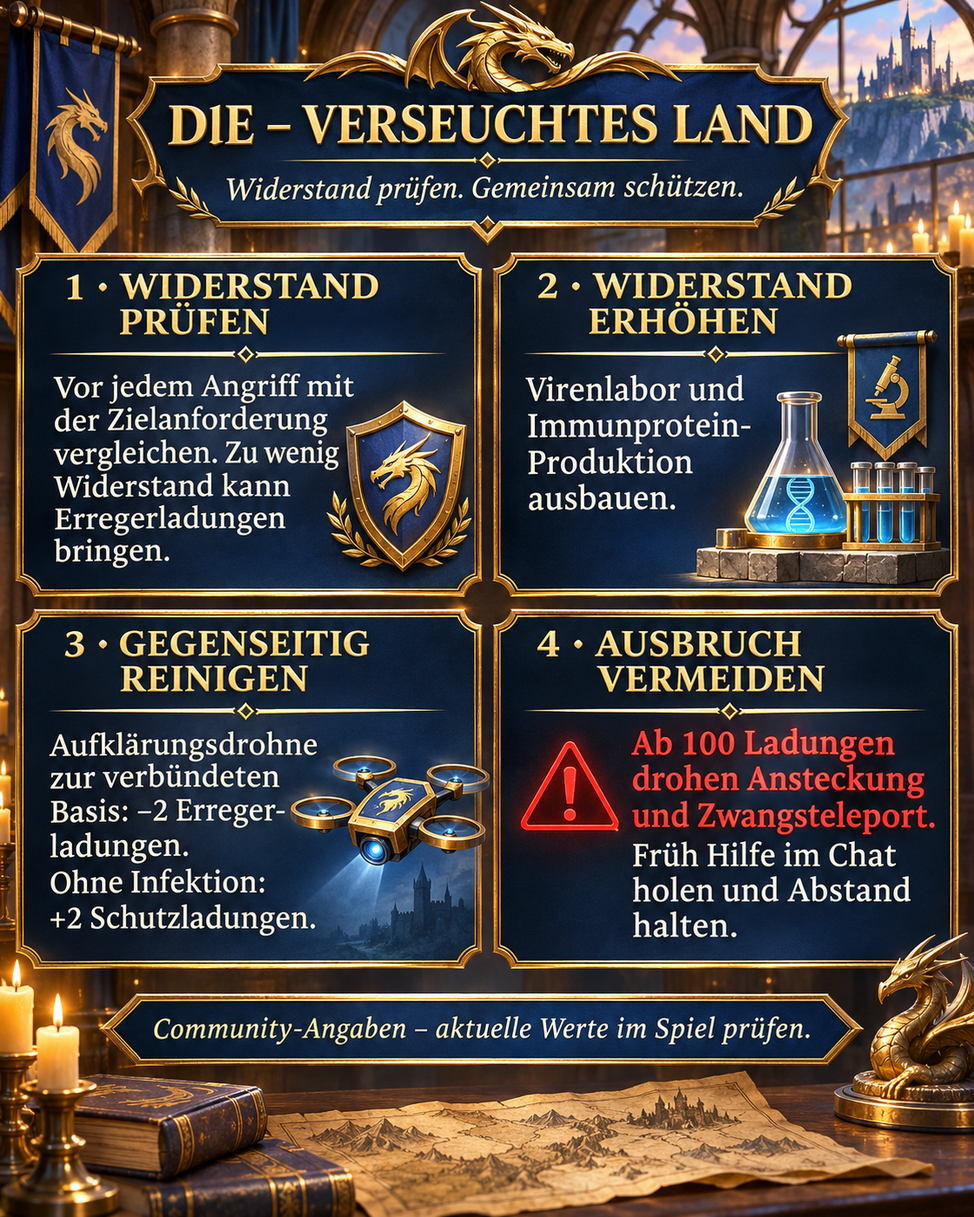
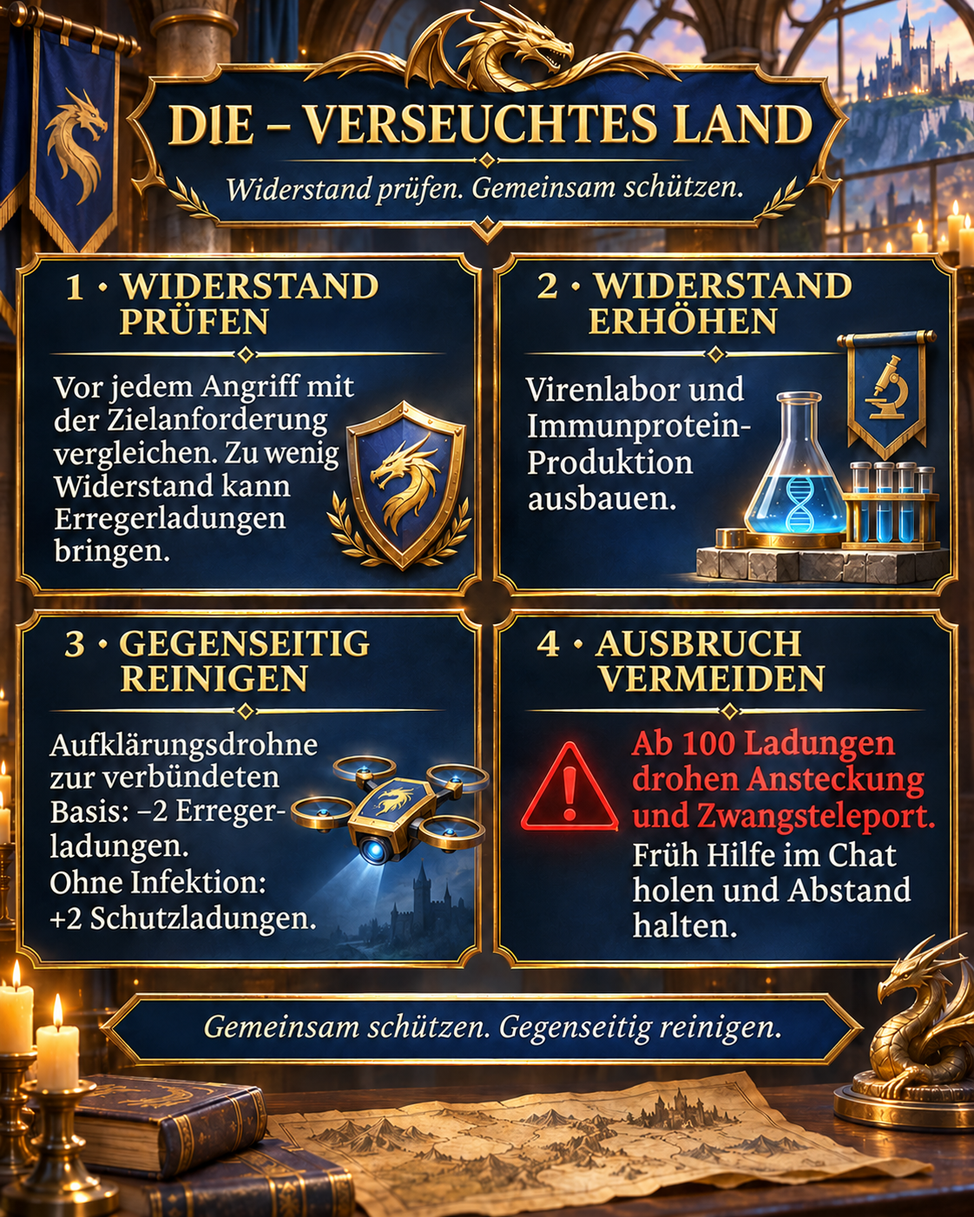
Clarify confirmed Radiated Land mechanics
Update the event guide in all five languages with confirmed resistance, cleansing, and outbreak details. Refresh the alliance graphic, image-edit prompt, and generated documentation summary.

diff --git a/content/Drachenwissen/Eventankuendigungen/ru/VerseuchtesLand_Widerstand_Erreger.md b/content/Drachenwissen/Eventankuendigungen/ru/VerseuchtesLand_Widerstand_Erreger.md
@@ -1,47 +1,41 @@
 # Облучённая земля: проверяем сопротивление и вместе снимаем заражение
 
-Для нас в DIE главное — сопротивление, контроль заражения и взаимопомощь. Здесь собраны сообщение альянса и подробное объяснение новых сезонных механик.
-
-## Актуальность и достоверность
-
-Дата проверки: 2 ноября 2026 года. Все численные параметры — **сведения сообщества**, не подтверждённые нашими снимками игры. Немецкое название — «Verseuchtes Land», английское — «Radiated Land». Приоритет имеют текущие требования целей и правила в игре. Подтверждённой даты завершения для нас нет, поэтому страница не помечена как завершённое событие.
+В событии «Облучённая земля» при выборе безопасной цели важна не только наша боевая мощь, но и сопротивление. Заряды патогена ослабляют нас, а при сильном заражении могут передаваться соседним базам. Развитие сезонных зданий и взаимная очистка помогают нам защищать друг друга.
 
 ## Иллюстрация и краткое содержание
 
 ![Облучённая земля: проверяем сопротивление и вместе снимаем заражение](../../../../media/knowledge/Eventankuendigungen/VerseuchtesLand_Widerstand_Erreger.png)
 
-Оригинальная немецкая иллюстрация в сине-золотом стиле DIE: проверять сопротивление, развивать производство, помогать с очисткой и избегать вспышки. Ниже эти четыре действия объяснены по-русски.
-
 ## Сопротивление и заряды патогена
 
-Сопротивление — защитный показатель, который мы сравниваем с требованием цели до атаки. Заряды патогена — уже накопленное заражение. Победа сама по себе не гарантирует отсутствия заражения. По [источнику 1](https://zroutehub.bond/handbook/event_season_guide/), атаки при недостаточном сопротивлении могут добавлять заряды. Точная формула зависимости риска от разницы сопротивления не установлена.
+Сопротивление — защитный показатель, который мы сравниваем с требованием цели до атаки. Заряды патогена — уже накопленное заражение. Победа не защищает от инфекции: при недостаточном сопротивлении даже успешная атака может добавить заряды. [Подробнее о механике](https://zroutehub.bond/handbook/event_season_guide/).
 
 ## Как повышать сопротивление
 
-Лаборатория вирусов повышает сопротивление и улучшается иммунным белком. Сезонные производственные здания дают белок и улучшаются урановыми кристаллами. [Источник 2](https://trassaz.ru/sezon-s1/) также называет исследования и бонус пропуска +250. Перед покупкой проверяйте актуальное предложение. Мы рекомендуем развивать производство и лабораторию вместе и проверять требования новых целей.
+Лаборатория вирусов повышает наше сопротивление и улучшается иммунным белком. Сезонные производственные здания дают этот белок и улучшаются урановыми кристаллами. Развивайте производство и лабораторию вместе, чтобы поступление ресурсов соответствовало потребностям. Исследования и бонус сезонного пропуска +250 дают дополнительное сопротивление. [Подробнее о развитии](https://trassaz.ru/sezon-s1/).
 
 ## Очистка и вспышка
 
-По [источнику 1](https://zroutehub.bond/handbook/event_season_guide/), разведывательный дрон на базу союзника снимает 2 заряда, а незаражённой базе даёт 2 защитных заряда. Это не обычный щит базы. При 100 зарядах сообщество описывает вспышку, заражение соседей и принудительную телепортацию. Заранее просите помощь, следите за заражением и при угрозе вспышки держитесь подальше от наших баз. Не отключайте очистку союзниками намеренно, пока мы вместе не проверим механику.
+Разведывательный дрон на базу союзника снимает 2 заряда патогена. Незаражённая база вместо этого получает 2 защитных заряда. При 100 зарядах происходит вспышка: соседние цели заражаются, а поражённая база принудительно телепортируется. Сообщайте о росте заражения в чате заранее, чтобы мы успели помочь с очисткой. При угрозе вспышки держитесь подальше от наших баз. [Подробнее об очистке и вспышке](https://zroutehub.bond/handbook/event_season_guide/).
 
-## Противоречия и вопросы
+## Сопротивление и защитные заряды
 
-Источники называют 30 или 35 передаваемых зарядов и расходятся по белку за Наблюдателей. Радиус, задержку, лимиты очистки, правила сборов и длительность штрафов после очистки ещё нужно проверить в нашей версии. Патоген, защитные заряды, сопротивление и антитела — разные понятия; пересчёт между ними не установлен.
+Сопротивление защищает нас при атаках заражённых целей. Очистка союзниками снимает накопленные заряды патогена. Защитные заряды накапливаются на незаражённой базе и отличаются от обычного щита. Антитела — ещё один отдельный показатель. Эти понятия нельзя приравнивать друг к другу.
 
 ## Наш порядок действий
 
-- До атаки сравниваем сопротивление с требованием цели.
-- Развиваем лабораторию и производство белка без слепого вложения всего в одно здание.
-- После боёв проверяем заряды и заранее организуем взаимную очистку.
-- Расхождения фиксируем снимками цели, сопротивления и количества зарядов.
+- До каждой атаки сравнивать наше сопротивление с требованием цели.
+- Развивать лабораторию вирусов и производство иммунного белка вместе.
+- После боёв проверять заряды и заранее просить об очистке.
+- При угрозе вспышки держаться подальше от наших баз и просить помощь в чате.
 
-## Источники и оценка
+## Источники
 
-1. [Server 33](https://zroutehub.bond/handbook/event_season_guide/) — Русский справочник сообщества сервера 33: сезонные здания, сопротивление, дроны и вспышка. Несмотря на заголовок «официальный гайд», сайт неофициальный.
+1. [Server 33](https://zroutehub.bond/handbook/event_season_guide/) — Русский справочник сообщества по сезонным зданиям, сопротивлению, очистке дронами и вспышке.
 
-2. [Z Route Wiki](https://trassaz.ru/sezon-s1/) — Русский фанатский гайд от 7 октября 2026 года: гамма-вирус, лаборатория, исследования и сезонные бонусы. Некоторые сведения расходятся с источником 1.
+2. [Z Route Wiki](https://trassaz.ru/sezon-s1/) — Русский фанатский гайд от 7 октября 2026 года о гамма-вирусе, сопротивлении и сезонных бонусах.
 
-3. [ARES](https://rutube.ru/video/b487339c34cd06938c1ba8a1af58c624/) — Видео ARES от 23 сентября 2026 года, 22:18: описание упоминает сопротивление, мораль и заражённую землю. Только дополнительная ссылка; числа этой страницы по видео не проверялись.
+3. [ARES](https://rutube.ru/video/b487339c34cd06938c1ba8a1af58c624/) — Русское видео от 23 сентября 2026 года с советами по сопротивлению, морали и заражённой земле (22:18).
 
 ## Сообщение альянса для копирования
 
@@ -52,11 +46,9 @@
 
 🧪 <b>Улучшайте лабораторию вирусов и производство иммунного белка.</b>
 
-🛰 <b>Помогаем с очисткой!</b> По данным сообщества, разведывательный дрон на базу союзника снимает 2 заряда, а незаражённой базе даёт 2 защитных заряда.
+🛰 <b>Помогаем с очисткой!</b> Разведывательный дрон на базу союзника снимает 2 заряда, а незаражённой базе даёт 2 защитных заряда.
 
 <color=#FF4040><b>⚠ Сообщайте о заражении заранее!</b></color> Оно ослабляет вас. При 100 зарядах грозят вспышка, заражение соседей и принудительная телепортация. При сильном заражении держитесь подальше от наших баз и просите помощь в чате.
 
 <b>Защищаем друг друга вместе!</b>
-
-Сведения сообщества; проверяйте текущие значения в игре.
 ```

diff --git a/content/Drachenwissen/Eventankuendigungen/fr/VerseuchtesLand_Widerstand_Erreger.md b/content/Drachenwissen/Eventankuendigungen/fr/VerseuchtesLand_Widerstand_Erreger.md
@@ -1,47 +1,41 @@
 # Terres contaminées : vérifier la résistance et éliminer les agents pathogènes ensemble
 
-Chez DIE, nous privilégions la résistance, le suivi de la contamination et l’entraide. Cette page réunit notre message d’alliance et une explication plus détaillée des nouvelles mécaniques saisonnières.
-
-## État et fiabilité
-
-Recherche du 2 novembre 2026. Toutes les valeurs sont des **indications communautaires**, sans confirmation par nos propres captures. Les sources russes parlent de « Облучённая земля », les sources anglaises de « Radiated Land ». Les indications actuelles du jeu priment. Aucune date de fin pour notre alliance n’est confirmée ; cette page n’est donc pas archivée comme terminée.
+Dans les Terres contaminées, la résistance compte autant que notre puissance pour choisir les cibles que nous pouvons attaquer sans risque excessif. Les charges pathogènes nous affaiblissent et peuvent contaminer les bases voisines lorsqu’elles s’accumulent. Développer nos bâtiments saisonniers et nous entraider pour la décontamination nous protège ensemble.
 
 ## Illustration et résumé
 
 ![Terres contaminées : vérifier la résistance et éliminer les agents pathogènes ensemble](../../../../media/knowledge/Eventankuendigungen/VerseuchtesLand_Widerstand_Erreger.png)
 
-Illustration originale en allemand, dans le style bleu et or de DIE : vérifier la résistance, développer la production, se décontaminer et éviter une épidémie. Ces quatre actions sont expliquées en français ci-dessous.
-
 ## Résistance et charges pathogènes
 
-La résistance est la protection à comparer aux exigences de la cible avant une attaque. Les charges pathogènes représentent la contamination déjà accumulée. Une victoire ne garantit pas une attaque sans infection. Selon la [source 1](https://zroutehub.bond/handbook/event_season_guide/), une résistance insuffisante peut entraîner des charges. La formule exacte reliant le risque à l’écart de résistance n’est pas établie.
+La résistance est la protection à comparer aux exigences de la cible avant une attaque. Les charges pathogènes représentent la contamination déjà accumulée. Une victoire ne protège pas de l’infection : si la résistance est insuffisante, même une attaque réussie peut ajouter des charges. [En savoir plus sur la mécanique](https://zroutehub.bond/handbook/event_season_guide/).
 
 ## Augmenter la résistance
 
-Le laboratoire viral augmente la résistance et utilise des protéines immunitaires pour ses améliorations. Les bâtiments saisonniers produisent ces protéines et s’améliorent avec des cristaux d’uranium. La [source 2](https://trassaz.ru/sezon-s1/) cite aussi la recherche et un bonus de pass de +250. Vérifiez l’offre actuelle avant tout achat. Nous recommandons de développer ensemble production et laboratoire et de vérifier les exigences des nouvelles cibles.
+Le laboratoire viral augmente notre résistance et utilise des protéines immunitaires pour ses améliorations. Les bâtiments saisonniers produisent ces protéines et s’améliorent avec des cristaux d’uranium. Développez production et laboratoire ensemble pour adapter les ressources aux besoins. La recherche et un bonus de pass de +250 apportent une résistance supplémentaire. [En savoir plus sur le développement](https://trassaz.ru/sezon-s1/).
 
 ## Décontamination et épidémie
 
-La [source 1](https://zroutehub.bond/handbook/event_season_guide/) annonce −2 charges par drone de reconnaissance envoyé à une base alliée, ou +2 charges protectrices si elle est saine. Ces charges ne sont pas un bouclier de base normal. À 100 charges, la communauté décrit une épidémie, une contamination du voisinage et une téléportation forcée. Demandez de l’aide tôt et éloignez-vous de nos bases si une épidémie menace. Ne désactivez pas volontairement la décontamination alliée avant un test commun.
+Un drone de reconnaissance envoyé à une base alliée retire 2 charges pathogènes. Une base saine reçoit à la place 2 charges protectrices. À 100 charges pathogènes, une épidémie contamine les cibles voisines et provoque la téléportation forcée de la base touchée. Signalez rapidement toute hausse dans le chat pour que nous puissions nous décontaminer à temps. Éloignez-vous de nos bases si une épidémie est imminente. [En savoir plus sur la décontamination et les épidémies](https://zroutehub.bond/handbook/event_season_guide/).
 
-## Désaccords et questions ouvertes
+## Comprendre la résistance et les charges protectrices
 
-Les sources indiquent 30 ou 35 charges transmises et divergent sur les protéines obtenues contre les Observateurs. Portée, délai, limites de décontamination, règles de ralliement et durée des pénalités après nettoyage restent à tester. Agents pathogènes, charges protectrices, résistance et anticorps sont distincts ; aucune conversion n’est établie.
+La résistance nous protège lors des attaques contre des cibles infectées. La décontamination alliée retire les charges pathogènes accumulées. Les charges protectrices se constituent sur une base saine et sont distinctes du bouclier normal. Les anticorps sont une autre valeur séparée. Ces termes ne doivent pas être confondus.
 
 ## Notre méthode
 
-- Comparer résistance et exigence avant les attaques.
-- Développer laboratoire et production sans tout investir aveuglément dans un seul bâtiment.
-- Contrôler les charges après les combats et organiser rapidement l’entraide.
-- Documenter les écarts par des captures de la cible, de la résistance et des charges.
+- Comparer notre résistance au seuil requis avant chaque attaque.
+- Développer ensemble le laboratoire viral et la production de protéines immunitaires.
+- Contrôler les charges après les combats et demander une décontamination rapidement.
+- S’éloigner de nos bases si une épidémie menace et demander de l’aide dans le chat.
 
-## Sources et évaluation
+## Sources
 
-1. [Server 33](https://zroutehub.bond/handbook/event_season_guide/) — Guide russe de la communauté du serveur 33 : bâtiments saisonniers, résistance, drones et épidémie. Malgré la mention « guide officiel », le site est communautaire et non officiel.
+1. [Server 33](https://zroutehub.bond/handbook/event_season_guide/) — Guide communautaire russe sur les bâtiments saisonniers, la résistance, les drones et les épidémies.
 
-2. [Z Route Wiki](https://trassaz.ru/sezon-s1/) — Guide de fans russe du 7 octobre 2026 : virus gamma, laboratoire, recherche et bonus saisonniers. Certaines indications divergent de la source 1.
+2. [Z Route Wiki](https://trassaz.ru/sezon-s1/) — Guide de fans russe du 7 octobre 2026 sur le virus gamma, la résistance et les bonus saisonniers.
 
-3. [ARES](https://rutube.ru/video/b487339c34cd06938c1ba8a1af58c624/) — Vidéo ARES du 23 septembre 2026, 22:18 : la description mentionne résistance, moral et terres contaminées. Lien complémentaire uniquement ; les chiffres de cette page n’ont pas été vérifiés dans la vidéo.
+3. [ARES](https://rutube.ru/video/b487339c34cd06938c1ba8a1af58c624/) — Vidéo russe du 23 septembre 2026 avec des conseils sur la résistance, le moral et les terres contaminées (22:18).
 
 ## Message d’alliance à copier
 
@@ -52,11 +46,9 @@ Les sources indiquent 30 ou 35 charges transmises et divergent sur les protéine
 
 🧪 <b>Améliorez le laboratoire viral et la production de protéines immunitaires.</b>
 
-🛰 <b>Décontaminons-nous !</b> Selon la communauté, un drone de reconnaissance vers une base alliée retire 2 charges pathogènes ou ajoute 2 charges protectrices si elle est saine.
+🛰 <b>Décontaminons-nous !</b> Un drone de reconnaissance vers une base alliée retire 2 charges pathogènes ou ajoute 2 charges protectrices si elle est saine.
 
 <color=#FF4040><b>⚠ Signalez la contamination tôt !</b></color> Elle vous affaiblit. À 100 charges : risque d’épidémie, de contamination voisine et de téléportation forcée. Éloignez-vous de nos bases en cas de forte contamination et demandez de l’aide dans le chat.
 
 <b>Protégeons-nous ensemble !</b>
-
-Indications communautaires ; vérifiez les valeurs en jeu.
 ```

diff --git a/content/Drachenwissen/Eventankuendigungen/de/VerseuchtesLand_Widerstand_Erreger.md b/content/Drachenwissen/Eventankuendigungen/de/VerseuchtesLand_Widerstand_Erreger.md
@@ -1,47 +1,41 @@
 # Verseuchtes Land: Widerstand prüfen und Erreger gemeinsam reinigen
 
-Für uns in DIE stehen Widerstand, Erregerkontrolle und gegenseitige Hilfe im Mittelpunkt. Diese Seite verbindet die Allianz-Mitteilung mit einer ausführlicheren Einordnung der neuen Saisonmechanik.
-
-## Stand und Verlässlichkeit
-
-Recherche: 2. November 2026. Alle Mechanikwerte sind **Community-Hinweise**, nicht von uns durch Spielaufnahmen bestätigt. Russische Quellen nennen die Saison „Облучённая земля“, englische „Radiated Land“. Aktuelle Zielanzeigen und Eventregeln im Spiel haben Vorrang. Für unsere Allianz liegt hier kein bestätigtes Enddatum vor; diese Seite ist deshalb nicht als abgeschlossen archiviert.
+Im Event „Verseuchtes Land“ entscheidet neben unserer Kampfkraft auch der Widerstand darüber, welche Ziele wir sicher angreifen können. Erregerladungen schwächen uns und können bei hoher Belastung auf benachbarte Basen übergreifen. Mit dem Ausbau unserer Saisongebäude und gegenseitiger Reinigung schützen wir uns gemeinsam.
 
 ## Grafik und Kurzfassung
 
 ![Verseuchtes Land: Widerstand prüfen und Erreger gemeinsam reinigen](../../../../media/knowledge/Eventankuendigungen/VerseuchtesLand_Widerstand_Erreger.png)
 
-Deutsche Originalgrafik im blau-goldenen DIE-Stil: Widerstand prüfen, Produktion ausbauen, gegenseitig reinigen und Ausbruch vermeiden.
-
 ## Widerstand und Erreger unterscheiden
 
-Widerstand ist der Schutzwert, den wir vor einem Angriff mit der Zielanforderung vergleichen. Erregerladungen beschreiben die bereits angesammelte Belastung. Ein Sieg allein belegt nicht, dass der Angriff ohne Infektion bleibt. Laut [Quelle 1](https://zroutehub.bond/handbook/event_season_guide/) können Angriffe bei zu geringem Widerstand Ladungen verursachen. Eine genaue Formel für Risiko und Widerstandsdifferenz ist nicht belegt.
+Widerstand ist der Schutzwert, den wir vor einem Angriff mit der Zielanforderung vergleichen. Erregerladungen beschreiben die bereits angesammelte Belastung. Ein Sieg allein schützt nicht vor Infektion: Bei zu geringem Widerstand könnt ihr auch bei einem erfolgreichen Angriff Erregerladungen sammeln. [Mehr zur Mechanik](https://zroutehub.bond/handbook/event_season_guide/).
 
 ## Widerstand aufbauen
 
-Das Virenlabor erhöht den Widerstand; Immunprotein dient seinem Ausbau. Die saisonalen Produktionsgebäude liefern Protein und werden mit Uran-Kristallen verbessert. [Quelle 2](https://trassaz.ru/sezon-s1/) nennt zusätzlich Forschung und einen Passbonus von +250 Widerstand. Das ist kein Kaufargument ohne Prüfung des aktuellen Angebots. Unsere Empfehlung: Produktion und Labor gemeinsam entwickeln, neue Ziele erst nach Prüfung ihrer Anforderungen angehen.
+Das Virenlabor erhöht unseren Widerstand und wird mit Immunprotein verbessert. Die saisonalen Produktionsgebäude liefern dieses Protein; für ihren Ausbau benötigen wir Uran-Kristalle. Entwickelt Produktion und Labor gemeinsam, damit der Nachschub mit dem Bedarf Schritt hält. Zusätzlichen Widerstand erhalten wir durch Forschung und einen Saisonpass-Bonus von +250. [Mehr zum Ausbau](https://trassaz.ru/sezon-s1/).
 
 ## Reinigung und Ausbruch
 
-Laut [Quelle 1](https://zroutehub.bond/handbook/event_season_guide/) entfernt eine Aufklärungsdrohne zur verbündeten Basis 2 Erregerladungen beziehungsweise gibt 2 Schutzladungen bei unbelasteter Basis. Schutzladungen nicht mit einem normalen Basisschild gleichsetzen. Bei 100 Ladungen drohen laut Community ein Ausbruch, Ansteckung in der Umgebung und Zwangsteleport. Deshalb früh Hilfe im Chat holen, Belastung kontrollieren und bei drohendem Ausbruch Abstand zu unseren Basen halten. Reinigung nicht absichtlich deaktivieren, solange wir die Mechanik nicht gemeinsam geprüft haben.
+Eine Aufklärungsdrohne zur verbündeten Basis entfernt 2 Erregerladungen. Ist die Basis nicht infiziert, erhält sie stattdessen 2 Schutzladungen. Bei 100 Erregerladungen kommt es zum Ausbruch: Benachbarte Ziele werden angesteckt und die betroffene Basis wird zwangsteleportiert. Meldet eine steigende Belastung frühzeitig im Allianzchat, damit wir uns rechtzeitig gegenseitig reinigen können. Steht ein Ausbruch bevor, haltet Abstand zu unseren Basen. [Mehr zu Reinigung und Ausbruch](https://zroutehub.bond/handbook/event_season_guide/).
 
-## Widersprüche und offene Fragen
+## Widerstand und Schutzladungen richtig einordnen
 
-Die Quellen nennen 30 beziehungsweise 35 übertragene Ladungen beim Ausbruch. Auch bei Protein aus Beobachter-Kämpfen widersprechen sie sich. Reichweite, Auslösezeit, Reinigungslimits, Rally-Regeln und die Dauer möglicher Nachteile nach einer Reinigung bleiben für unseren Spielstand zu testen. Erreger, Schutzladungen, Widerstand und Antikörper sind getrennte Begriffe; eine Umrechnung ist nicht belegt.
+Widerstand schützt uns bei Angriffen auf infizierte Ziele. Die Reinigung durch Verbündete baut bereits angesammelte Erregerladungen ab. Schutzladungen werden auf einer unbelasteten Basis aufgebaut und sind vom normalen Basisschild zu unterscheiden. Antikörper sind ein weiterer eigener Wert. Diese Begriffe dürfen nicht gleichgesetzt werden.
 
 ## Unser Vorgehen
 
-- Vor Angriffen Zielanforderung und eigenen Widerstand prüfen.
-- Labor und Proteinproduktion ausbauen; Ressourcen nicht ungeprüft in ein einziges Gebäude stecken.
-- Erregerstand nach Kämpfen kontrollieren und früh gegenseitige Reinigung organisieren.
-- Abweichungen mit Screenshot von Ziel, Widerstand und Erregerstand dokumentieren.
+- Vor jedem Angriff unseren Widerstand mit der Zielanforderung vergleichen.
+- Virenlabor und Immunprotein-Produktion gemeinsam ausbauen.
+- Nach Kämpfen die Erregerladungen prüfen und frühzeitig um Reinigung bitten.
+- Bei drohendem Ausbruch Abstand zu unseren Basen halten und Hilfe im Allianzchat holen.
 
-## Quellen und Einordnung
+## Quellen
 
-1. [Server 33](https://zroutehub.bond/handbook/event_season_guide/) — Russischer Community-Guide von Server 33: saisonale Gebäude, Widerstand, Drohnenreinigung und Ausbruch. Trotz der Überschrift „offizieller Guide“ ist die Website eine inoffizielle Community-Seite.
+1. [Server 33](https://zroutehub.bond/handbook/event_season_guide/) — Russischer Community-Guide zu Saisongebäuden, Widerstand, Drohnenreinigung und Ausbruch.
 
-2. [Z Route Wiki](https://trassaz.ru/sezon-s1/) — Russischer Fan-Guide, datiert 7. Oktober 2026: Gamma-Virus, Labor, Forschung und saisonale Boni. Einzelne Angaben weichen von Quelle 1 ab.
+2. [Z Route Wiki](https://trassaz.ru/sezon-s1/) — Russischer Fan-Guide vom 7. Oktober 2026 zu Gamma-Virus, Widerstand und Saisonboni.
 
-3. [ARES](https://rutube.ru/video/b487339c34cd06938c1ba8a1af58c624/) — Video von ARES, 23. September 2026, 22:18 Minuten: Die Beschreibung nennt Widerstand, Moral und verseuchtes Land. Nur ergänzender Videolink; konkrete Zahlen dieser Seite wurden nicht aus dem Video verifiziert.
+3. [ARES](https://rutube.ru/video/b487339c34cd06938c1ba8a1af58c624/) — Russisches Video vom 23. September 2026 mit Tipps zu Widerstand, Moral und verseuchtem Land (22:18 Minuten).
 
 ## Allianz-Mitteilung zum Kopieren
 
@@ -52,11 +46,9 @@ Die Quellen nennen 30 beziehungsweise 35 übertragene Ladungen beim Ausbruch. Au
 
 🧪 <b>Virenlabor und Immunprotein-Produktion ausbauen.</b> So erhöhen wir unseren Widerstand.
 
-🛰 <b>Gegenseitig reinigen!</b> Eine Aufklärungsdrohne zur verbündeten Basis entfernt laut Community-Guide 2 Erregerladungen; ohne Infektion gibt sie 2 Schutzladungen.
+🛰 <b>Gegenseitig reinigen!</b> Eine Aufklärungsdrohne zur verbündeten Basis entfernt 2 Erregerladungen; ohne Infektion gibt sie 2 Schutzladungen.
 
 <color=#FF4040><b>⚠ Erreger frühzeitig melden!</b></color> Sie schwächen euch. Ab 100 Ladungen drohen Ausbruch, Ansteckung benachbarter Basen und Zwangsteleport. Bei hoher Belastung Abstand zu unseren Basen halten und Hilfe im Chat anfordern.
 
 <b>Gemeinsam schützen, gegenseitig helfen!</b>
-
-Hinweise aus Community-Guides; prüft die aktuellen Werte im Spiel.
 ```

diff --git a/content/Drachenwissen/Eventankuendigungen/pt/VerseuchtesLand_Widerstand_Erreger.md b/content/Drachenwissen/Eventankuendigungen/pt/VerseuchtesLand_Widerstand_Erreger.md
@@ -1,47 +1,41 @@
 # Terra contaminada: verificar resistência e remover patógenos juntos
 
-Para nós da DIE, resistência, controle da contaminação e ajuda mútua vêm primeiro. Esta página reúne a mensagem da aliança e uma explicação mais detalhada das novas mecânicas sazonais.
-
-## Atualização e confiabilidade
-
-Pesquisa de 2 de novembro de 2026. Todos os valores são **relatos da comunidade**, sem confirmação por capturas nossas do jogo. Fontes russas usam “Облучённая земля”; em inglês, “Radiated Land”. Os requisitos atuais das metas e as regras do jogo têm prioridade. Não há data de encerramento confirmada para nós, por isso a página não está arquivada como concluída.
+Na Terra contaminada, a resistência importa tanto quanto o poder de combate ao escolher alvos que podemos atacar com segurança. As cargas de patógeno nos enfraquecem e podem contaminar bases próximas quando se acumulam. Desenvolver nossos prédios sazonais e ajudar na limpeza protege todos nós.
 
 ## Imagem e resumo
 
 ![Terra contaminada: verificar resistência e remover patógenos juntos](../../../../media/knowledge/Eventankuendigungen/VerseuchtesLand_Widerstand_Erreger.png)
 
-Imagem original em alemão no estilo azul e dourado da DIE: verificar resistência, desenvolver produção, ajudar na limpeza e evitar surtos. As quatro ações estão explicadas em português abaixo.
-
 ## Resistência e cargas de patógeno
 
-Resistência é a proteção que comparamos ao requisito do alvo antes de atacar. Cargas de patógeno representam a contaminação já acumulada. Vencer não garante um ataque sem infecção. Segundo a [fonte 1](https://zroutehub.bond/handbook/event_season_guide/), atacar abaixo do requisito pode acrescentar cargas. Não foi estabelecida uma fórmula exata para o risco conforme a diferença de resistência.
+Resistência é a proteção que comparamos ao requisito do alvo antes de atacar. Cargas de patógeno representam a contaminação já acumulada. Vencer não protege contra infecção: com resistência insuficiente, até um ataque bem-sucedido pode acrescentar cargas. [Mais sobre a mecânica](https://zroutehub.bond/handbook/event_season_guide/).
 
 ## Como aumentar a resistência
 
-O laboratório de vírus aumenta a resistência e usa proteína imune nas melhorias. Os prédios sazonais fornecem proteína e usam cristais de urânio para melhorias. A [fonte 2](https://trassaz.ru/sezon-s1/) também cita pesquisa e bônus de passe de +250. Confira a oferta atual antes de comprar. Recomendamos desenvolver produção e laboratório juntos e verificar os requisitos dos novos alvos.
+O laboratório de vírus aumenta nossa resistência e usa proteína imune nas melhorias. Os prédios sazonais produzem essa proteína e usam cristais de urânio para melhorias. Desenvolvam produção e laboratório juntos para que os recursos acompanhem a demanda. A pesquisa e um bônus de passe de +250 fornecem resistência adicional. [Mais sobre o desenvolvimento](https://trassaz.ru/sezon-s1/).
 
 ## Limpeza e surto
 
-A [fonte 1](https://zroutehub.bond/handbook/event_season_guide/) informa −2 cargas por drone de reconhecimento enviado à base aliada, ou +2 cargas de proteção se ela estiver sem infecção. Essas cargas não são um escudo comum. Com 100 cargas, a comunidade descreve surto, contaminação próxima e teletransporte forçado. Peçam ajuda cedo e mantenham distância das nossas bases se houver risco de surto. Não desativem a limpeza aliada de propósito antes de testarmos a mecânica juntos.
+Um drone de reconhecimento enviado a uma base aliada remove 2 cargas de patógeno. Uma base sem infecção recebe 2 cargas de proteção no lugar. Com 100 cargas, ocorre um surto: os alvos próximos são contaminados e a base afetada é teletransportada à força. Avisem cedo sobre o aumento da contaminação no chat para que possamos ajudar na limpeza a tempo. Afastem-se das nossas bases se um surto estiver próximo. [Mais sobre limpeza e surtos](https://zroutehub.bond/handbook/event_season_guide/).
 
-## Divergências e dúvidas
+## Entendendo resistência e cargas de proteção
 
-As fontes citam 30 ou 35 cargas transferidas e divergem sobre proteína em combates contra Observadores. Alcance, atraso, limites de limpeza, regras de reunião e duração das penalidades após limpeza ainda precisam ser testados na nossa versão. Patógenos, cargas de proteção, resistência e anticorpos são conceitos diferentes; não há conversão estabelecida.
+A resistência nos protege ao atacar alvos infectados. A limpeza por aliados remove as cargas de patógeno acumuladas. As cargas de proteção se formam numa base sem infecção e são diferentes do escudo comum. Anticorpos são outro valor separado. Esses termos não devem ser tratados como equivalentes.
 
 ## Nossa rotina
 
-- Comparar resistência e requisito antes dos ataques.
-- Desenvolver laboratório e produção de proteína sem investir tudo cegamente num só prédio.
-- Conferir cargas após os combates e organizar ajuda com antecedência.
-- Registrar divergências com capturas do alvo, resistência e cargas.
+- Comparar nossa resistência com o requisito antes de cada ataque.
+- Desenvolver o laboratório de vírus e a produção de proteína imune juntos.
+- Conferir as cargas após os combates e pedir limpeza com antecedência.
+- Afastar-se das nossas bases em caso de risco de surto e pedir ajuda no chat.
 
-## Fontes e avaliação
+## Fontes
 
-1. [Server 33](https://zroutehub.bond/handbook/event_season_guide/) — Guia russo da comunidade do servidor 33: prédios sazonais, resistência, drones e surto. Apesar do título “guia oficial”, o site é comunitário e não oficial.
+1. [Server 33](https://zroutehub.bond/handbook/event_season_guide/) — Guia russo da comunidade sobre prédios sazonais, resistência, limpeza por drones e surtos.
 
-2. [Z Route Wiki](https://trassaz.ru/sezon-s1/) — Guia de fãs russo de 7 de outubro de 2026: vírus gama, laboratório, pesquisa e bônus sazonais. Algumas afirmações divergem da fonte 1.
+2. [Z Route Wiki](https://trassaz.ru/sezon-s1/) — Guia de fãs russo de 7 de outubro de 2026 sobre vírus gama, resistência e bônus sazonais.
 
-3. [ARES](https://rutube.ru/video/b487339c34cd06938c1ba8a1af58c624/) — Vídeo ARES de 23 de setembro de 2026, 22:18: a descrição menciona resistência, moral e terra contaminada. Link complementar; os números desta página não foram verificados no vídeo.
+3. [ARES](https://rutube.ru/video/b487339c34cd06938c1ba8a1af58c624/) — Vídeo russo de 23 de setembro de 2026 com dicas sobre resistência, moral e terra contaminada (22:18).
 
 ## Mensagem da aliança para copiar
 
@@ -52,11 +46,9 @@ As fontes citam 30 ou 35 cargas transferidas e divergem sobre proteína em comba
 
 🧪 <b>Melhorem o laboratório de vírus e a produção de proteína imune.</b>
 
-🛰 <b>Vamos ajudar na limpeza!</b> Segundo a comunidade, um drone de reconhecimento para uma base aliada remove 2 cargas de patógeno; sem infecção, adiciona 2 cargas de proteção.
+🛰 <b>Vamos ajudar na limpeza!</b> Um drone de reconhecimento para uma base aliada remove 2 cargas de patógeno; sem infecção, adiciona 2 cargas de proteção.
 
 <color=#FF4040><b>⚠ Avisem cedo sobre contaminação!</b></color> Ela enfraquece vocês. Com 100 cargas, há risco de surto, contaminação próxima e teletransporte forçado. Com alta contaminação, afastem-se das nossas bases e peçam ajuda no chat.
 
 <b>Vamos nos proteger juntos!</b>
-
-Relatos da comunidade; confiram os valores atuais no jogo.
 ```

diff --git a/content/Drachenwissen/Eventankuendigungen/en/VerseuchtesLand_Widerstand_Erreger.md b/content/Drachenwissen/Eventankuendigungen/en/VerseuchtesLand_Widerstand_Erreger.md
@@ -1,47 +1,41 @@
 # Radiated Land: check resistance and clear pathogens together
 
-For us in DIE, resistance, pathogen control and mutual help come first. This page combines our alliance message with a fuller explanation of the new seasonal mechanics.
-
-## Status and reliability
-
-Research date: 2 November 2026. All mechanic values are **community reports**, not confirmed by our own game captures. Russian sources call the season “Облучённая земля”; the German title is “Verseuchtes Land”. Current target displays and event rules take priority. We have no confirmed end date for our alliance, so this page is not archived as completed.
+In Radiated Land, resistance matters alongside combat power when choosing targets we can attack safely. Pathogen charges weaken us and, at high levels, can spread to nearby bases. Developing our seasonal buildings and helping cleanse each other keeps us protected together.
 
 ## Graphic and summary
 
 ![Radiated Land: check resistance and clear pathogens together](../../../../media/knowledge/Eventankuendigungen/VerseuchtesLand_Widerstand_Erreger.png)
 
-Original German graphic in DIE blue and gold: check resistance, develop production, clear infections together and avoid an outbreak. The four actions are explained in English below.
-
 ## Resistance versus pathogen charges
 
-Resistance is the protection value we compare with the target requirement before attacking. Pathogen charges are the contamination already accumulated. Winning does not establish that an attack was infection-free. According to [source 1](https://zroutehub.bond/handbook/event_season_guide/), attacks below the resistance requirement can add charges. An exact formula linking the resistance gap to infection risk is not established.
+Resistance is the protection value we compare with the target requirement before attacking. Pathogen charges are the contamination already accumulated. Winning does not prevent infection: with insufficient resistance, even a successful attack can add pathogen charges. [More about the mechanic](https://zroutehub.bond/handbook/event_season_guide/).
 
 ## Building resistance
 
-The virus laboratory increases resistance and uses immune protein for upgrades. Seasonal production buildings supply protein and use uranium crystals for upgrades. [Source 2](https://trassaz.ru/sezon-s1/) also lists research and a pass bonus of +250 resistance. Check the current offer before considering a purchase. Our recommendation: develop production and the laboratory together and check requirements before attacking new targets.
+The virus laboratory increases our resistance and uses immune protein for upgrades. Seasonal production buildings supply that protein and use uranium crystals for upgrades. Develop production and the laboratory together so supply keeps pace with demand. Research and a season pass bonus of +250 provide additional resistance. [More about development](https://trassaz.ru/sezon-s1/).
 
 ## Cleansing and outbreaks
 
-According to [source 1](https://zroutehub.bond/handbook/event_season_guide/), a reconnaissance drone sent to an allied base removes 2 pathogen charges, or adds 2 protection charges if it is uninfected. Protection charges are not the same as a normal base shield. At 100 charges, community reports describe an outbreak, nearby infections and forced teleportation. Ask for help early, monitor contamination and keep away from our bases if an outbreak is imminent. Do not deliberately disable allied cleansing before we have tested the mechanic together.
+A reconnaissance drone sent to an allied base removes 2 pathogen charges. An uninfected base receives 2 protection charges instead. At 100 pathogen charges, an outbreak infects nearby targets and forces the affected base to teleport. Report rising contamination early in alliance chat so we can help cleanse each other in time. Keep away from our bases if an outbreak is imminent. [More about cleansing and outbreaks](https://zroutehub.bond/handbook/event_season_guide/).
 
-## Disagreements and open questions
+## Understanding resistance and protection charges
 
-The sources disagree between 30 and 35 transferred charges per outbreak and on protein rewards from Watcher fights. Range, delay, cleansing limits, rally rules and the duration of penalties after cleansing still need testing in our version. Pathogens, protection charges, resistance and antibodies are distinct terms; no conversion is established.
+Resistance protects us when attacking infected targets. Allied cleansing removes pathogen charges already accumulated. Protection charges build up on an uninfected base and are distinct from a normal base shield. Antibodies are another separate value. These terms must not be treated as equivalent.
 
 ## Our approach
 
-- Compare resistance and target requirements before attacking.
-- Develop the laboratory and protein production; avoid investing blindly in a single building.
-- Check pathogen charges after battles and arrange allied cleansing early.
-- Document differences with screenshots of the target, resistance and charge count.
+- Compare our resistance with the target requirement before every attack.
+- Develop the virus laboratory and immune protein production together.
+- Check pathogen charges after battles and ask for cleansing early.
+- Keep away from our bases if an outbreak threatens and ask for help in alliance chat.
 
-## Sources and assessment
+## Sources
 
-1. [Server 33](https://zroutehub.bond/handbook/event_season_guide/) — Russian Server 33 community guide: seasonal buildings, resistance, drone cleansing and outbreaks. Despite its “official guide” heading, this is an unofficial community website.
+1. [Server 33](https://zroutehub.bond/handbook/event_season_guide/) — Russian community guide to seasonal buildings, resistance, drone cleansing and outbreaks.
 
-2. [Z Route Wiki](https://trassaz.ru/sezon-s1/) — Russian fan guide dated 7 October 2026: gamma virus, laboratory, research and seasonal bonuses. Some claims differ from source 1.
+2. [Z Route Wiki](https://trassaz.ru/sezon-s1/) — Russian fan guide dated 7 October 2026 covering gamma virus, resistance and seasonal bonuses.
 
-3. [ARES](https://rutube.ru/video/b487339c34cd06938c1ba8a1af58c624/) — ARES video, 23 September 2026, 22:18: the description mentions resistance, morale and contaminated land. Supplementary link only; the numerical claims on this page were not verified from the video.
+3. [ARES](https://rutube.ru/video/b487339c34cd06938c1ba8a1af58c624/) — Russian video dated 23 September 2026 with tips on resistance, morale and contaminated land (22:18).
 
 ## Alliance message to copy
 
@@ -52,11 +46,9 @@ The sources disagree between 30 and 35 transferred charges per outbreak and on p
 
 🧪 <b>Upgrade the virus laboratory and immune protein production.</b> This builds our resistance.
 
-🛰 <b>Help cleanse each other!</b> Community reports: a reconnaissance drone to an allied base removes 2 pathogen charges, or adds 2 protection charges if uninfected.
+🛰 <b>Help cleanse each other!</b> A reconnaissance drone to an allied base removes 2 pathogen charges, or adds 2 protection charges if uninfected.
 
 <color=#FF4040><b>⚠ Report contamination early!</b></color> Charges weaken you. At 100, outbreaks, nearby infections and forced teleportation threaten. Keep away from our bases when heavily contaminated and ask for help in chat.
 
 <b>Protect each other and work together!</b>
-
-Community guidance; check current values in the game.
 ```

diff --git a/guides/image-prompts/VerseuchtesLand_Widerstand_Erreger.md b/guides/image-prompts/VerseuchtesLand_Widerstand_Erreger.md
@@ -1,0 +1,9 @@
+# Verseuchtes Land: bestätigte Spielwerte
+
+Werkzeug: integriertes Imagegen, Bearbeitung der vorhandenen Allianz-Grafik.
+
+Ziel: `media/knowledge/Eventankuendigungen/VerseuchtesLand_Widerstand_Erreger.png`
+
+## Bearbeitungsprompt
+
+Edit target: the supplied German blue and gold DlE alliance information poster. Change ONLY the footer text in the bottom navy and gold ribbon. Replace "Community-Angaben – aktuelle Werte im Spiel prüfen." with exactly "Gemeinsam schützen. Gegenseitig reinigen." Preserve all other wording, numerical values, layout, colors, illustrations, dragon ornaments, typography, dimensions and composition unchanged. The values have now been confirmed, so remove the outdated community disclaimer. No other changes.
